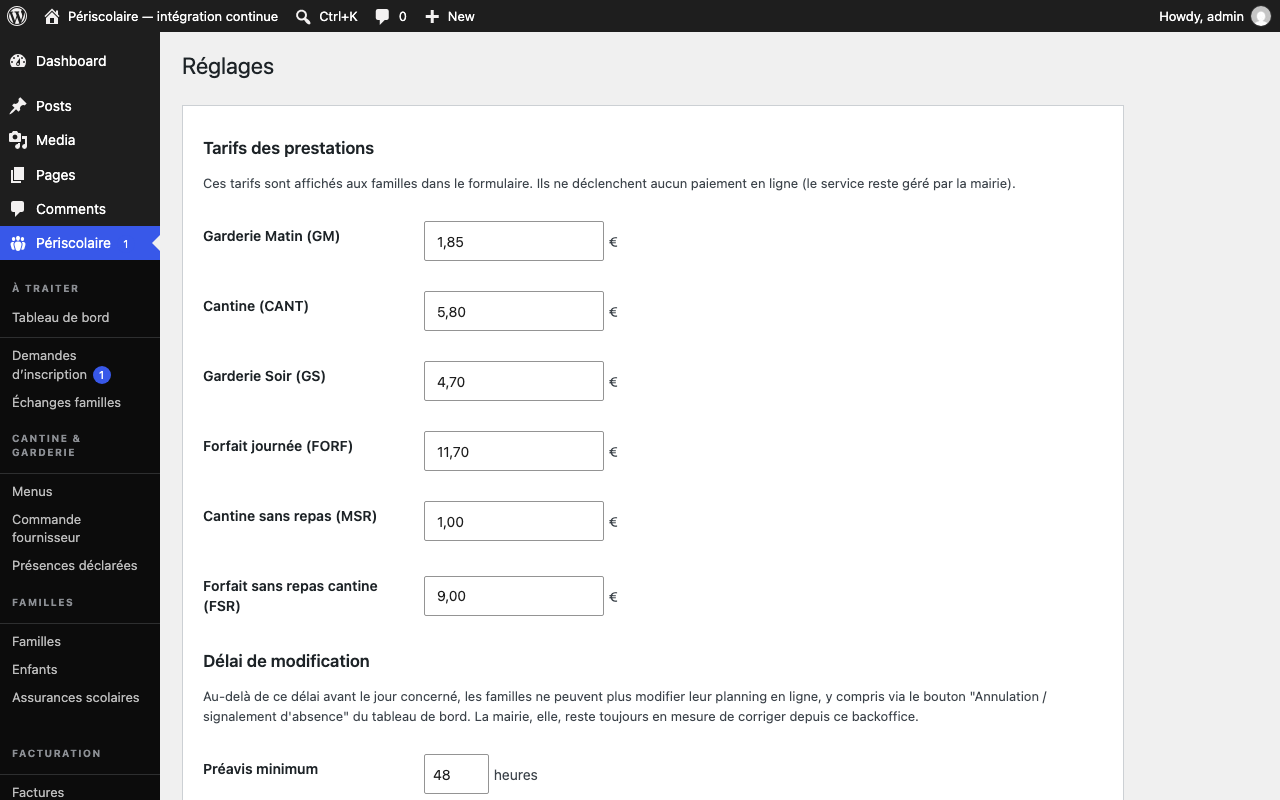
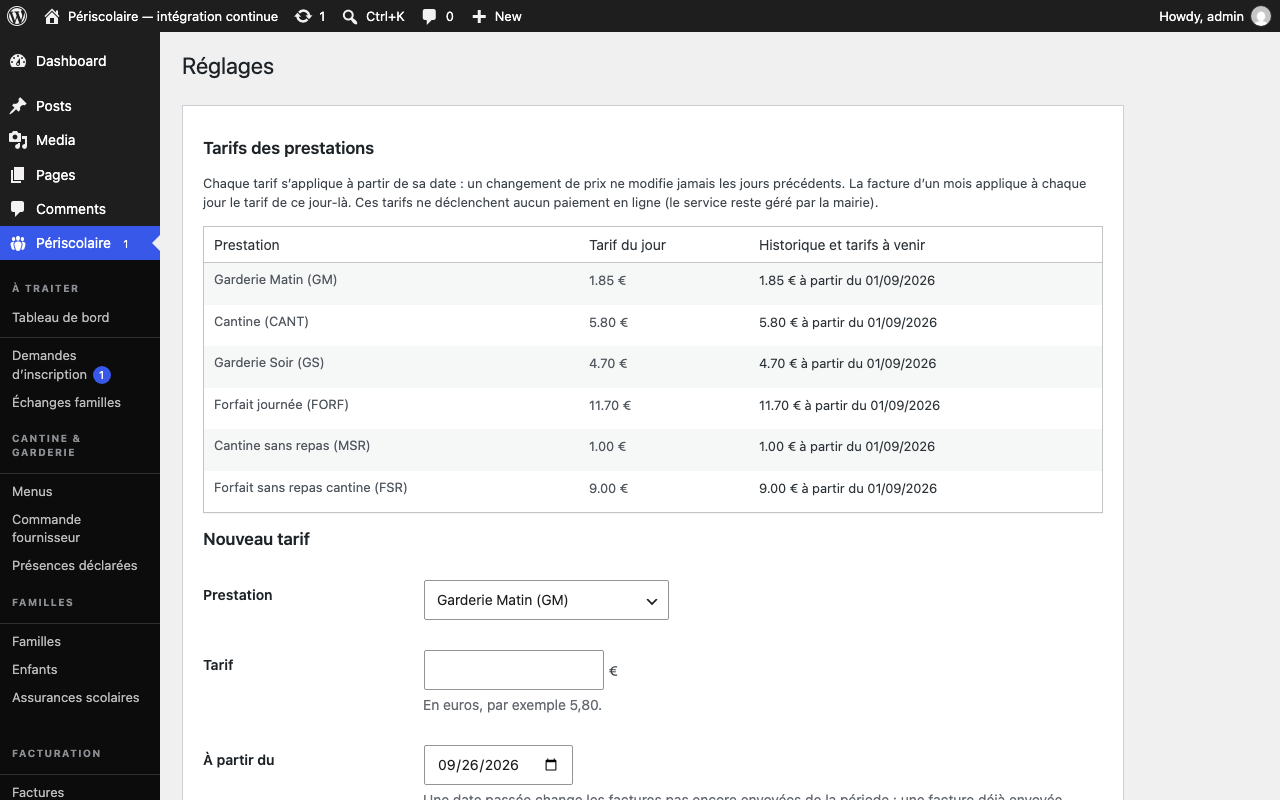
docs(facturation): tarifs et statut sans repas datés ; TODO P1-16
Claude-Session: https://claude.ai/code/session_01NUknn5V2uYE87AKNARM7tY

diff --git a/documentation/configuration/services-tarifs.md b/documentation/configuration/services-tarifs.md
@@ -10,8 +10,11 @@ Connectez-vous avec un rôle autorisé à gérer les réglages. Décidez des mon
 
 ## Étapes
 
-1. Ouvrez **Périscolaire › Réglages**, puis repérez **Tarifs des prestations**. Les montants saisis sont affichés aux familles ; aucun paiement en ligne n'est déclenché par le plugin.
-2. Renseignez le montant en euros pour chaque ligne : **Garderie Matin (GM)** (1,85 € par défaut), **Cantine (CANT)** (5,80 €), **Garderie Soir (GS)** (4,70 €), **Forfait journée (FORF)** (11,70 €), **Cantine sans repas (MSR)** (1,00 €) et **Forfait sans repas cantine (FSR)** (9,00 €). Le [forfait journée](../glossaire.md#forfait-journee) regroupe la garderie du matin, la cantine et la garderie du soir ; le forfait sans repas est une variante de facturation.
+1. Ouvrez **Périscolaire › Réglages**, puis repérez **Tarifs des prestations**. Le tableau donne, pour chaque prestation, le **tarif du jour** et l'historique des tarifs, y compris ceux à venir. Les tarifs par défaut sont : **Garderie Matin (GM)** 1,85 €, **Cantine (CANT)** 5,80 €, **Garderie Soir (GS)** 4,70 €, **Forfait journée (FORF)** 11,70 €, **Cantine sans repas (MSR)** 1,00 € et **Forfait sans repas cantine (FSR)** 9,00 €. Le [forfait journée](../glossaire.md#forfait-journee) regroupe la garderie du matin, la cantine et la garderie du soir ; le forfait sans repas est une variante de facturation. Aucun paiement en ligne n'est déclenché par le plugin.
+2. Pour changer un prix, remplissez **Nouveau tarif** : choisissez la **Prestation**, saisissez le **Tarif** en euros et la date **À partir du**, puis cliquez sur **Enregistrer le tarif**. Le nouveau prix s'applique à partir de cette date ; les jours précédents gardent l'ancien. La facture d'un mois applique à chaque jour le tarif de ce jour-là : un changement en cours de mois donne deux lignes, la seconde précisée « (à partir du jj/mm) ».
+
+    - Un tarif **à venir** peut être supprimé depuis l'historique. Un tarif déjà entré en vigueur ne peut pas l'être : il a servi à facturer. Pour le corriger, enregistrez un nouveau tarif à la même date.
+    - Une date passée corrige les factures **pas encore envoyées** de la période. Une facture déjà envoyée n'est rectifiée qu'à sa prochaine génération, avec archivage de la version remise à la famille.
 
    ![Écran « Tarifs des prestations » affichant les six lignes de tarifs et leurs montants en euros](../assets/screenshots/services-tarifs.png)
 
@@ -27,7 +30,7 @@ Connectez-vous avec un rôle autorisé à gérer les réglages. Décidez des mon
         Une facture déjà envoyée garde la règle sous laquelle elle a été établie : un changement de règle ne la rectifie pas.
 
 3. Repérez **Délai de modification**, puis renseignez **Préavis minimum** en heures. La valeur par défaut est de 48 heures ; mettez 0 pour désactiver le verrouillage général.
-4. Enregistrez les réglages. Au-delà du délai avant le jour concerné, les familles ne peuvent plus modifier leur planning ni utiliser **Annulation / signalement d'absence**. La mairie peut toujours corriger une réservation depuis le backoffice.
+4. Cliquez sur **Enregistrer les réglages**. Au-delà du délai avant le jour concerné, les familles ne peuvent plus modifier leur planning ni utiliser **Annulation / signalement d'absence**. La mairie peut toujours corriger une réservation depuis le backoffice.
 
    Le délai se compte depuis le début du jour concerné (minuit), en heures réellement écoulées. Le planning des familles affiche l'heure limite exacte (« Modifiable jusqu'au… ») : c'est bien l'instant où le jour se verrouille. Les week-ends de changement d'heure, cette limite peut tomber à 23:00 ou à 01:00 au lieu de minuit.
 5. Si nécessaire, ajustez aussi le préavis propre à l'année active depuis la page [Année scolaire](annee-scolaire.md) : ce réglage de planning s'applique alors à cette année.

diff --git a/TODO.md b/TODO.md
@@ -40,7 +40,7 @@
 | **Serveur distant** | **En 5.30.0 (26/09/2026)**, à jour de toutes les versions publiées. Le 25/09, passage 5.23.1 → 5.28.0 avec les cinq étapes de **Périscolaire › Maintenance** (sauvegarde, base au schéma 4.15.0, clé des IBAN hors de la base et rechiffrement, réglages, recette). Reste : tester une restauration avec la clé, puis dérouler la fiche de recette de l'hébergement (P1-04, P1-18) | Exploitation |
 | P2-06 | Polices servies localement (publié en 5.28.1, déployé) ; reste l'inventaire des ressources tierces du site réel (onglet Réseau du navigateur) | Exploitation, puis DPO |
 | P1-11 | Fait, à publier : fichier de repli expurgé et archivé, alerte de retard des tâches planifiées, purge par niveau sans trou dans la chaîne (schéma 4.16.0). Reste : faire valider les durées par le DPO | DPO |
-| P1-16 | Montants en centimes, périodes d'effet des tarifs et du statut « sans repas » | Schéma à valider |
+| P1-16 | Fait, à publier : tarifs et statut « sans repas » datés (schéma 4.17.0). Reste : factures en centimes (lot séparé) et validation de la procédure de correction par la facturation | Facturation |
 | P2-14 | Version du règlement effectivement accepté | Schéma à valider, puis facturation |
 | P1-15 | Règle unique publiée en 5.29.0, déployée ; reste à revoir le tarif FSR, plus cher que ses prestations avec les valeurs par défaut | Facturation |
 | P3-01 | Premier lot publié en 5.30.0, déployé ; second lot fait (listes du calendrier factorisées, e-mail « forfait modifié » par enfant), à publier | Développement |
@@ -359,7 +359,9 @@ Les allergies sont des données de santé. Un choix « sans porc » ne prouve pa
 
 **Suppression protégée (après v5.24.0) :** « Supprimer les factures du mois » ne supprime plus que les factures jamais envoyées et sans version archivée. La suppression totale n'est possible qu'en mode debug, activé par WP-CLI (`psc_invoice_debug_delete`), signalé par une alerte et tracé dans le journal d'audit. Preuve : `bin/verify-invoice-deletion.php`, `tests/invoices.spec.ts`.
 
-**Restant :** les périodes d’effet des tarifs et du statut « sans repas » ne sont pas modélisées — c’est la rectification qui rattrape le coup, pas une historisation des paramètres. Les montants restent en flottant, non convertis en centimes. La qualification comptable du PDF et la procédure de correction restent à valider par la facturation et la mairie.
+**Périodes d’effet (schéma 4.17.0, validé le 26/09/2026) :** tables `psc_tarifs` (code, prix en centimes, début, fin) et `psc_sans_repas` (enfant, début, fin) ; la colonne `children.cantine_sans_repas` et l’option `psc_service_prices` sont reprises puis supprimées par la migration. Chaque jour est résolu avec le statut de ce jour et facturé au tarif de ce jour ; un changement en cours de mois coupe la ligne de facture. Réglages › Tarifs : « Nouveau tarif à partir du » et historique ; fiche enfant : « Cantine sans repas / Rétablir les repas à partir du ». Preuves : `bin/verify-dated-tariffs.php` (29 vérifications, dont la migration), `tests/integration/invoice-snapshot.php` (35, en CI : un tarif ou un statut daté d’après le mois ne rectifie pas une facture émise, daté dans le mois il la rectifie), `tests/tarifs-dates.spec.ts`, tests unitaires.
+
+**Restant :** les montants restent en flottant, non convertis en centimes. La qualification comptable du PDF et la procédure de correction restent à valider par la facturation et la mairie.
 
 **Acceptation :** changer un tarif, sortir un enfant ou modifier son flag en octobre n’altère pas une facture de septembre déjà émise ; correction identifiable et archive conservée selon la politique validée. La qualification comptable exacte du PDF doit être confirmée par la mairie. **Développement + facturation/archives ; L.**
 

diff --git a/documentation/installation/notes-mise-a-jour.md b/documentation/installation/notes-mise-a-jour.md
@@ -14,6 +14,7 @@ Passer d'une version antérieure à 5.26.0 (5.23.x, 5.24.x ou 5.25.x) à la vers
 
 - **Journal d'audit, schéma 4.16.0 :** deux colonnes ajoutées au journal, calculées automatiquement à la mise à jour, sans toucher aux lignes existantes. Une ligne dont la durée de conservation est dépassée voit désormais son contenu effacé même si des lignes plus anciennes sont conservées plus longtemps. L'étape **2. Base de données** de la page **Maintenance** doit afficher le schéma 4.16.0.
 - **Tâches planifiées :** un avis rouge sur le tableau de bord signale un WP-Cron à l'arrêt. S'il apparaît, suivez [Tâches planifiées](taches-planifiees.md#alerte-de-retard).
+- **Tarifs et statut « cantine sans repas » datés, schéma 4.17.0 :** la grille de tarifs en place devient le premier tarif de chaque prestation, à compter de la première rentrée enregistrée, et chaque enfant signalé « cantine sans repas » l'est depuis cette même date. Les montants des factures existantes ne changent pas. Ensuite, un changement de prix ou de statut se fait **à partir d'une date** : voir [Services et tarifs](../configuration/services-tarifs.md) et [Régimes alimentaires](../configuration/regimes-alimentaires.md). L'étape **2. Base de données** de la page **Maintenance** doit afficher le schéma 4.17.0.
 
 ## Avant de commencer
 

diff --git a/docs/contrats-planning.md b/docs/contrats-planning.md
@@ -17,6 +17,8 @@ Aucun canal ne relit `psc_pattern` ou `psc_exception`, et aucun ne réinterprèt
 
 Les listes de familles concernées par une fermeture (`Psc_School_Calendar::affected_families*`) partagent un même socle, `families_for()`, qui ne diffère que par la lecture appliquée à chaque journée.
 
+Tarifs et statut « sans repas » sont **datés** (P1-16, schéma 4.17.0) : la carte d'un jour est résolue avec le statut de ce jour (`Psc_Sans_Repas`, table `psc_sans_repas`), et `psc_billing_services($day, $sans_repas, $regle, $date)` compare les tarifs en vigueur ce jour-là (`psc_billing_tariffs($date)`, table `psc_tarifs`). Une facture regroupe ses jours par prestation et par tarif.
+
 Le navigateur ne calcule aucun montant : les totaux affichés par le portail viennent de la réponse du serveur (`planning_state`).
 
 ## Table de décision
